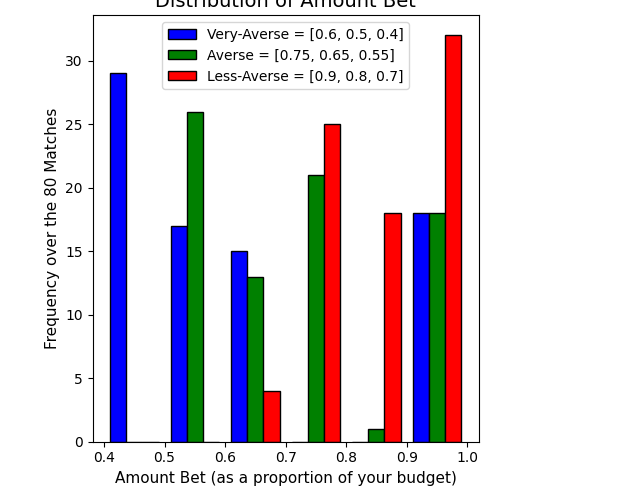
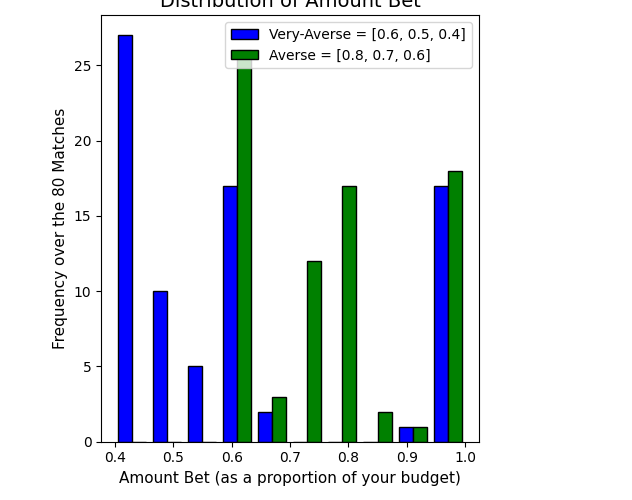
fixed smooth density plots

Changed region(s): [[0.0601, 0.0, 0.7516, 0.99]]

diff --git a/FullProjectCode/Visualisations.py b/FullProjectCode/Visualisations.py
@@ -26,7 +26,7 @@ def test80Matches(DB, matchesFileName):
     # Which plots to make:
     plot1 = False
     plot2 = True
-    plot3 = False
+    plot3 = True
     
     # Read in the matches, odds, and respective Pa and Pb values:
     matches = ReadInData(matchesFileName, False)
@@ -208,11 +208,10 @@ def test80Matches(DB, matchesFileName):
 
     if (plot3):
         # Amount Bet:
-        plt.hist([amountBet['Very-Averse'],amountBet['Averse'],amountBet['Less-Averse']], 
-        color=['blue','green','red'],edgecolor='black',label=['Very-Averse = [{}, {}, {}]'.format(riskProfiles['Very-Averse'][0],
+        plt.hist([amountBet['Very-Averse'],amountBet['Averse']], 
+        color=['blue','green'],edgecolor='black',label=['Very-Averse = [{}, {}, {}]'.format(riskProfiles['Very-Averse'][0],
         riskProfiles['Very-Averse'][1],riskProfiles['Very-Averse'][2]),'Averse = [{}, {}, {}]'.format(riskProfiles['Averse'][0],
-        riskProfiles['Averse'][1],riskProfiles['Averse'][2]),'Less-Averse = [{}, {}, {}]'.format(riskProfiles['Less-Averse'][0],
-        riskProfiles['Less-Averse'][1],riskProfiles['Less-Averse'][2])],bins = 6)
+        riskProfiles['Averse'][1],riskProfiles['Averse'][2])],bins = 10)
         plt.legend()
         plt.title('Distribution of Amount Bet', fontsize = 14)
         plt.xlabel('Amount Bet (as a proportion of your budget)', fontsize = 11)
@@ -229,7 +228,7 @@ def test80Matches(DB, matchesFileName):
             plt.show()
 
         # Smoothed density plots:
-        '''df = pd.DataFrame()
+        df = pd.DataFrame()
         listRPs = []
         listAmountBet = []
         for profile in profiles:
@@ -238,15 +237,15 @@ def test80Matches(DB, matchesFileName):
                     listRPs.append(profile)
                     listAmountBet.append(ROI)   
         df["Risk Profile"] = listRPs
-        df["Amount Bet"] = listAmountBet
+        df["Amount Bet (as a proportion of users budget)"] = listAmountBet
         
-        dis = sns.displot(df, x = "Amount Bet", hue = "Risk Profile", kind = "kde", fill = True)#.set(title = 'Smoothed Density Plots\n(Distribution of Amount Bet)')
-        dis.fig.suptitle('Smoothed Density Plots\n(Distribution of Amount Bet)')
+        dis = sns.displot(df, x = "Amount Bet (as a proportion of users budget)", hue = "Risk Profile",stat="density", common_norm = False)#.set(title = 'Smoothed Density Plots\n(Distribution of Amount Bet)')
+        dis.fig.suptitle('Distribution of Amount Bet')
         if (saveFigures):
             plt.savefig(plotsFolder+'Smoohted Density Plot of Amount Bet')
             plt.clf()
         else:
-            plt.show()'''
+            plt.show()
 
 def test80MatchesRS(DB, matchesFileName):
     # Test the ROI as an objective on a full test set of 80 matches using a Risk-Seeking profile
@@ -1466,7 +1465,7 @@ def main():
     # Test for CVaR Model:
     DB = ReadInGridDB('ModelDistributions2.csv')
     #testRegretConstraints(DB, '2018_19MatchesWithOdds.csv')
-    test80MatchesRS(DB, 'testSetForCalibrationWithROIWithManualyAddedDataWithPValues.csv')
+    test80Matches(DB, 'testSetForCalibrationWithROIWithManualyAddedDataWithPValues.csv')
     #test1MatchRS(DB, '2018_19MatchesWithOdds.csv')
 
 if __name__ == "__main__":

diff --git a/FullProjectCode/EvaluatingPValues.py b/FullProjectCode/EvaluatingPValues.py
@@ -194,8 +194,8 @@ def ExtractSetScores(setScoresStirng):
 
 def ReadInData(fileName, header):
     # Get location of file:
-    #fileName = os.path.join('C:\\Uni\\4thYearProject\\repo\\BeatTheOdds\\FullProjectCode\\CSVFiles', fileName)
-    fileName = os.path.join('C:\\Users\\campb\\OneDrive\\Documents\\University_ENGSCI\\4th Year\\ResearchProject\\beliefprop\\FullProjectCode\\CSVFiles', fileName)
+    fileName = os.path.join('C:\\Uni\\4thYearProject\\repo\\BeatTheOdds\\FullProjectCode\\CSVFiles', fileName)
+    #fileName = os.path.join('C:\\Users\\campb\\OneDrive\\Documents\\University_ENGSCI\\4th Year\\ResearchProject\\beliefprop\\FullProjectCode\\CSVFiles', fileName)
 
     # Read in CSV file:
     testData = []

diff --git a/FullProjectCode/ModelDistributionsDB.py b/FullProjectCode/ModelDistributionsDB.py
@@ -183,8 +183,8 @@ def ValidatingStepSize(DB,StepSize):
 
 def ReadInGridDB(FileName):
     # Get location of file:
-    FileName = os.path.join('FullProjectCode\\CSVFiles', FileName)
-    #FileName = os.path.join('C:\\Uni\\4thYearProject\\repo\\BeatTheOdds\\FullProjectCode\\CSVFiles', FileName)
+    #FileName = os.path.join('FullProjectCode\\CSVFiles', FileName)
+    FileName = os.path.join('C:\\Uni\\4thYearProject\\repo\\BeatTheOdds\\FullProjectCode\\CSVFiles', FileName)
     # Read in the model distributions database: 
     DB = {} 
     x = pd.read_csv(FileName, header = None)
